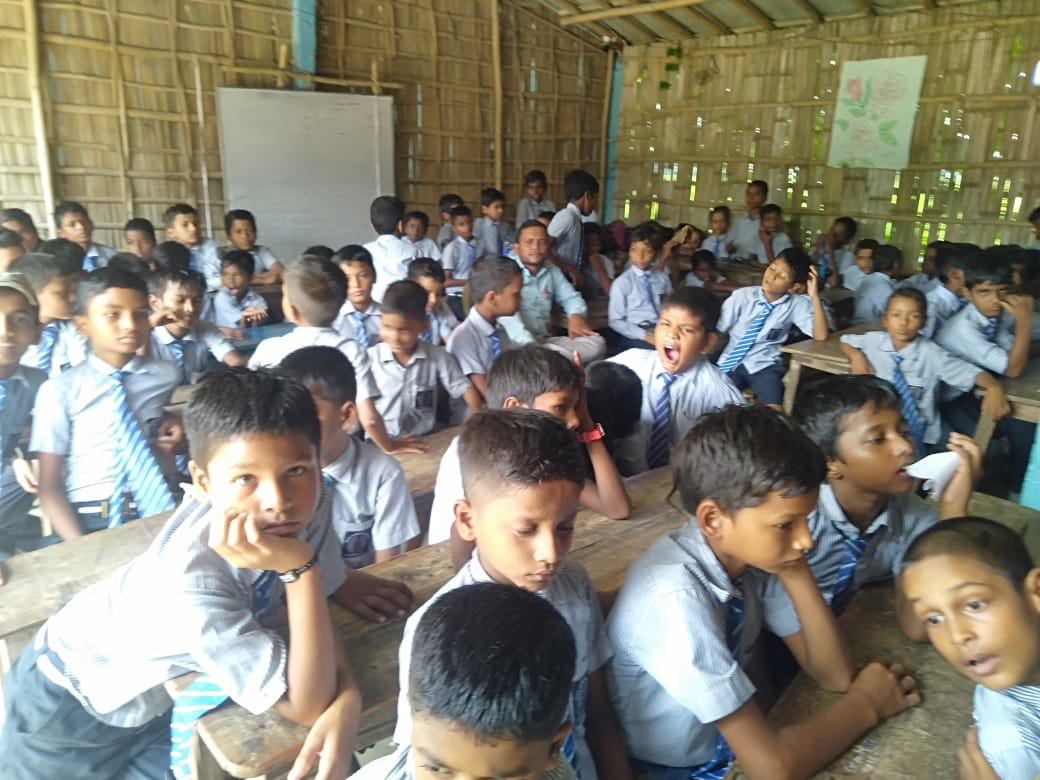
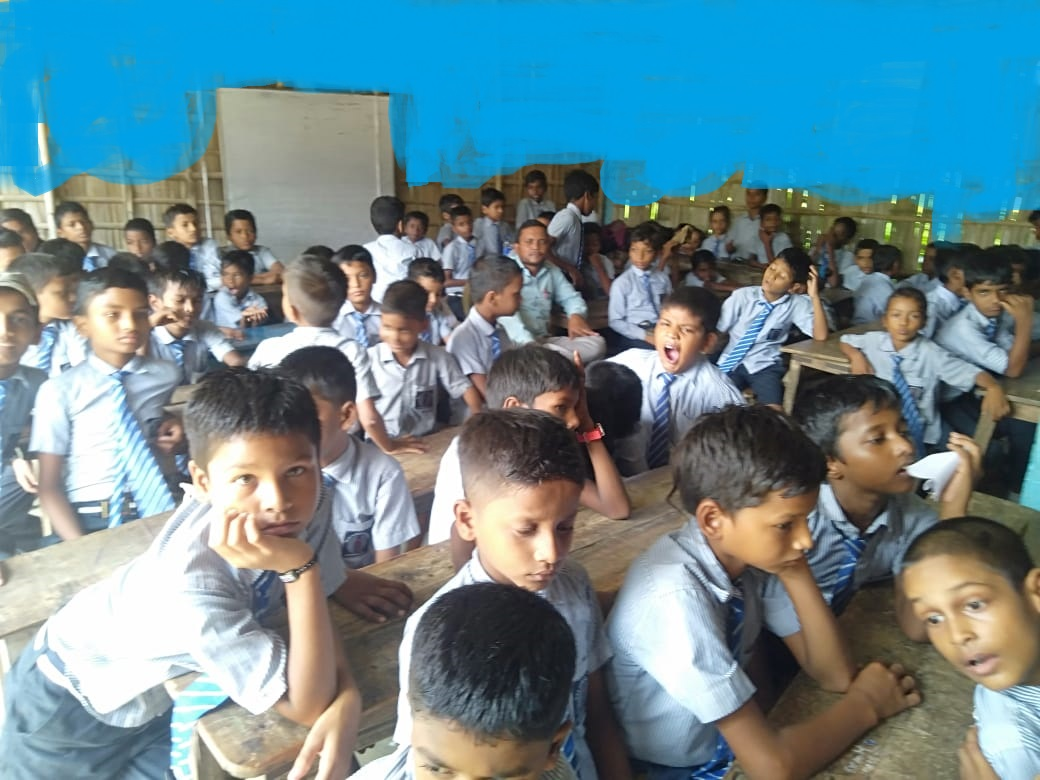
added responsiveness

Changed region(s): [[0.0, 0.0, 1.0, 0.3385]]

diff --git a/src/components/MobileBottomHeder.jsx b/src/components/MobileBottomHeder.jsx
@@ -1,47 +1,32 @@
-import React, { useState } from 'react'
-// import '../styles/MobileBottomHeader.css'
-// import Social from './Social';
 import logo from '../assets/logo.png'
 
 const MobileBottomHeader = () => {
-  const [isMenu, setIsMenu] = useState(false)
-
-  const handleMenu = () => {
-    if (isMenu) {
-      setIsMenu(false)
-      const sideNav = document.querySelector('.sideNav')
-      sideNav.classList.remove('open')
-    } else {
-      setIsMenu(true)
-      const sideNav = document.querySelector('.sideNav')
-      sideNav.classList.add('open')
-    }
-  }
   return (
     <>
-      <div className='w-full flex items-center justify-between px-8 gap-5 fixed bottom-0 left-0 z-50 shadow-md bg-white '>
-        
-        <div className='flex items-center flex-col gap-1'>
+      <div className='w-full flex md:hidden items-center justify-between px-4  fixed bottom-0 left-0 z-50 shadow-lg bg-white '>
+        <a
+          href='tel:+919006756153'
+          className='flex items-center flex-col gap-0'
+        >
           <div className='text-xl text-[#0369A1]'>
-            {' '}
-            <i className='fa-solid fa-user-plus'></i>
+            <i className='ri-phone-fill'></i>
           </div>
-          <p>Phone</p>
-        </div>
+          <p className='text-sm text-gray-700'>Phone</p>
+        </a>
         <div className='flex items-center flex-col'>
-          <img src={`${logo}`} className='size-10' alt='MPS logo' />
-          Home
+          <img src={`${logo}`} className='size-8' alt='MPS logo' />
+          <p className='text-sm text-gray-700'>Home</p>
         </div>
-        <div className='flex items-center flex-col gap-1'>
+        <a
+          href='mailto:schoolmaxpublic@email.com?subject=Hello&body=I want to contact you'
+          className='flex items-center flex-col gap-0'
+        >
           <div className='text-xl text-[#0369A1]'>
-            {' '}
-            <i className='fa-solid fa-user-plus'></i>
+            <i className='ri-mail-line'></i>
           </div>
-          <p>WhatsApp</p>
-        </div>
+          <p className='text-sm text-gray-700'>Email</p>
+        </a>
       </div>
-
-      
     </>
   )
 }

diff --git a/src/App.jsx b/src/App.jsx
@@ -4,7 +4,7 @@ import './App.css'
 import Welcome from './components/Welcome'
 import Gallery from './components/Gallery'
 import MobileBottomHeader from './components/MobileBottomHeder'
-
+import Footer from './pages/Footer'
 function App () {
   return (
     <>
@@ -12,6 +12,7 @@ function App () {
       <Home />
       <Welcome />
       <Gallery />
+      <Footer />
       <MobileBottomHeader />
     </>
   )

diff --git a/index.html b/index.html
@@ -11,7 +11,8 @@
   <link
     href="https://fonts.googleapis.com/css2?family=Poppins:ital,wght@0,100;0,200;0,300;0,400;0,500;0,600;0,700;0,800;0,900;1,100;1,200;1,300;1,400;1,500;1,600;1,700;1,800;1,900&display=swap"
     rel="stylesheet">
- 
+  <link href="https://cdn.jsdelivr.net/npm/remixicon@4.5.0/fonts/remixicon.css" rel="stylesheet" />
+
 </head>
 
 <body>

diff --git a/src/components/WhatsappBtn.jsx b/src/components/WhatsappBtn.jsx
@@ -5,7 +5,7 @@ const WhatsappBtn = () => {
   return (
     <div> 
       <a
-      href="https://wa.me/9006756153" // Replace with your WhatsApp number
+      href="https://wa.me/9006756153"
       target="_blank"
       rel="noopener noreferrer"
       className="whatsapp-button"

diff --git a/src/pages/Footer.jsx b/src/pages/Footer.jsx
@@ -1,0 +1,9 @@
+import React from 'react'
+
+const Footer = () => {
+  return (
+    <div className='bg-sky-300 h-[40vh] w-full'>Footer</div>
+  )
+}
+
+export default Footer
